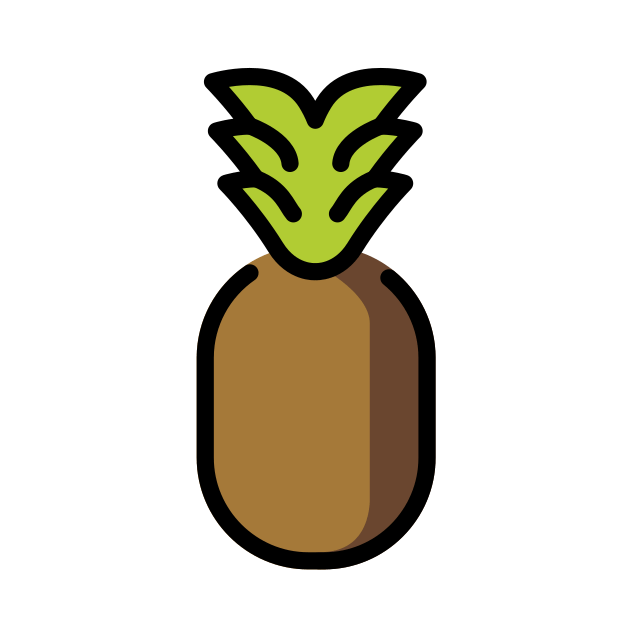
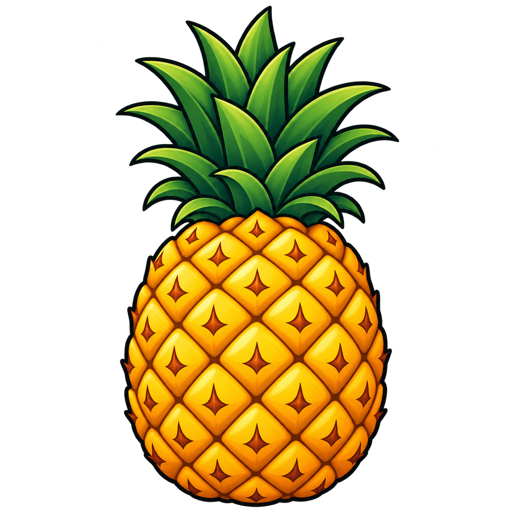
fix: replace pineapple image with clearer fruit illustration

diff --git a/miniprogram/fortress/fruit-catalog.ts b/miniprogram/fortress/fruit-catalog.ts
@@ -15,8 +15,8 @@ export const BATTLE_WORDS: readonly FortressWord[] = Object.freeze([
 ].map(word => Object.freeze({ ...word, audioPath: `/assets/audio/learn-${word.id}.mp3` })));
 export const EXTRA_IMAGE_ASSETS: readonly VisualAsset[] = EXTRA_FRUITS.map(word => ({
   path: `/assets/images/${word.id}.png`, wordId: word.id, kind: 'image',
-  source: `https://github.com/hfg-gmuend/openmoji/blob/17.0.0/color/618x618/${word.emoji}.png`,
-  rights: 'OpenMoji contributors；CC BY-SA 4.0；原图未修改；https://creativecommons.org/licenses/by-sa/4.0/', reviewStatus: 'approved',
+  source: word.id === 'pineapple' ? 'docs/assets/original/pineapple-imagegen.md' : `https://github.com/hfg-gmuend/openmoji/blob/17.0.0/color/618x618/${word.emoji}.png`,
+  rights: word.id === 'pineapple' ? '本项目使用内置 image_gen 生成的菠萝插画，2026-11-02；未使用第三方参考图，缩放至512px' : 'OpenMoji contributors；CC BY-SA 4.0；原图未修改；https://creativecommons.org/licenses/by-sa/4.0/', reviewStatus: 'approved',
 }));
 
 export const EXTRA_AUDIO_ASSETS: readonly VisualAsset[] = EXTRA_FRUITS.flatMap(word => {

diff --git a/docs/assets/original/pineapple-imagegen.md b/docs/assets/original/pineapple-imagegen.md
@@ -1,0 +1,13 @@
+# 菠萝图片替换
+
+- 日期：2026-11-02
+- 生成方式：内置 `image_gen`，新图生成，未提供第三方参考图。
+- 项目文件：`miniprogram/assets/images/pineapple.png`
+- 输出：512×512 PNG，保留透明通道；从生成原图等比例缩小用于小程序。
+- 使用位置：听词水果卡片、僵尸水果头饰和胜利成果卡片共用路径。
+- 原始生成文件：`/Users/zhuwenfang/.codex/generated_images/01a195dd-b1aa-7080-a228-fa313c21b4fe/exec-88bbb1d8-8c65-46f1-9f7b-68a785c38020.png`
+- 已查看成图，确认金黄色果身、绿色叶冠和菱形果皮纹理；旧版 OpenMoji 菠萝来源标记已替换。
+
+## 完整提示词
+
+Create one original pineapple fruit icon for a children's vocabulary game. A single whole ripe pineapple, upright, centered, nearly filling a square canvas with 8% clear margin. Broad plump golden-yellow oval fruit body with very recognizable LARGE amber diamond crosshatch pineapple rind pattern, small dark amber eyes in each diamond, and a compact crown of rich green pointed leaves. Crown occupies upper third, fruit body lower two thirds. Friendly clean illustrated icon with bold dark charcoal outlines, simple flat colors and subtle warm shading. Recognizable at 32 pixels, avoid fine detail. No face, no limbs, no text, no labels, no logos, no other fruit, no scene, no ground shadow. Actual transparent background with alpha, not a checkerboard illustration. Output PNG asset.
